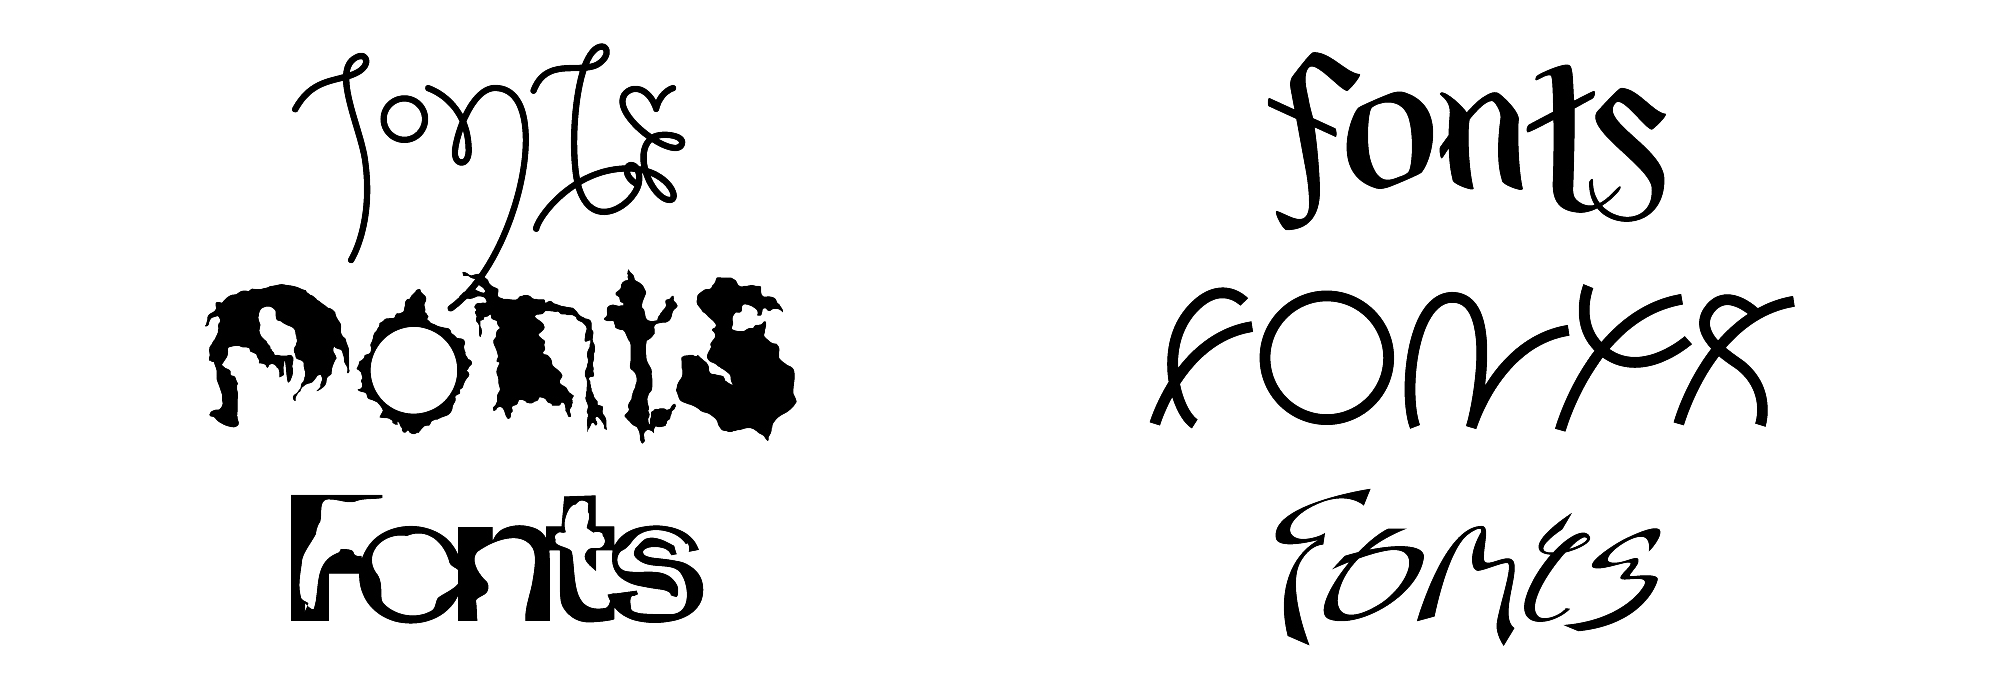
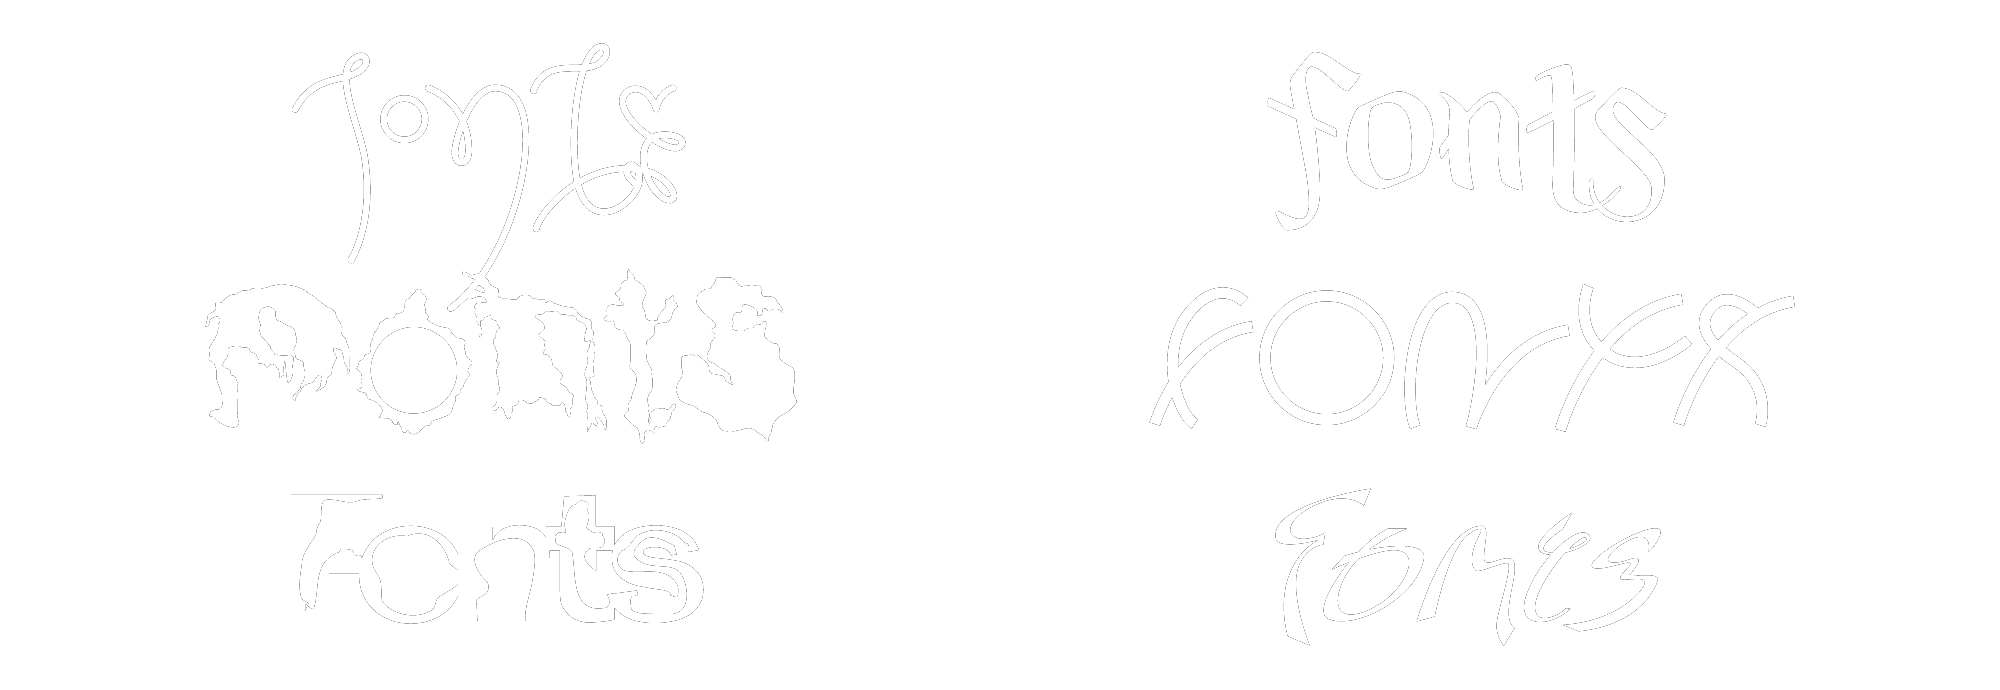
fixes

diff --git a/index.html b/index.html
@@ -40,8 +40,17 @@
       Available for freelance work or collaborations.</p>
     </div>
 <hr/>
-	<div id="authenticity">
-	  <img src="images/AuthenticityPosters/ap-12.jpg" alt="Authenticity Poster" class="shadow imagethirds"/>
+	<div id="Swati">
+      <img src="images/swati1.jpg" alt="Swati book" class="shadow"/>
+      <img src="images/swati2.jpg" alt="Swati book" class="shadow"/>
+      <img src="images/swati3.jpg" alt="Swati book" class="shadow"/>
+      <div class="description">
+          <p><span class="titles">Swati Piparsania Book &rarr; 2018</span><span class="spacer"></span>A book collecting the works and writings for industrial designer Swati Piparsania. Playing off of Piparsania's playful and speculative objects, each section of writing in this “flat book” has to be read as one continuous line through the entire book and back to the front of the book, “wrapping” around and around the book.</p>
+      </div>
+    </div>
+<hr/>
+  <div id="authenticity">
+    <img src="images/AuthenticityPosters/ap-12.jpg" alt="Authenticity Poster" class="shadow imagethirds"/>
       <img src="images/AuthenticityPosters/ap-11.jpg" alt="Authenticity Poster" class="shadow imagethirds"/>
       <img src="images/AuthenticityPosters/ap-10.jpg" alt="Authenticity Poster" class="shadow imagethirds"/>
       <img src="images/AuthenticityPosters/ap-2.jpg" alt="Authenticity Poster" class="shadow imagethirds"/>
@@ -74,12 +83,10 @@
       </div>
     </div>
 <hr/>
-  <div id="Swati">
-      <img src="images/swati1.jpg" alt="Swati book" class="shadow"/>
-      <img src="images/swati2.jpg" alt="Swati book" class="shadow"/>
-      <img src="images/swati3.jpg" alt="Swati book" class="shadow"/>
+  <div id="Metaphysical">
+      <img src="images/metaphysicalhauntings.png" alt="Metaphysical Hauntings" />
       <div class="description">
-          <p><span class="titles">Swati Piparsania Book &rarr; 2018</span><span class="spacer"></span>A book collecting the works and writings for industrial designer Swati Piparsania. Playing off of Piparsania's playful and speculative objects, each section of writing in this “flat book” has to be read as one continuous line through the entire book and back to the front of the book, “wrapping” around and around the book.</p>
+          <p><span class="titles">Metaphysical Hauntings &rarr; 2017</span><span class="spacer"></span>Logo for <em>Metaphysical Hauntings</em> webseries.</p>
       </div>
     </div>
 <hr/>
@@ -87,13 +94,6 @@
       <img src="images/PrattFashionAd.jpg" alt="Pratt Fashion Show Ad"/>
       <div class="description">
           <p><span class="titles">Pratt Shows: Fashion Ad &rarr; 2017</span><span class="spacer"></span>Advertisement for the Pratt Institute 2018 fashion show.</p><p><sup>Designed at Pratt Institute</sup></p>
-      </div>
-    </div>
-<hr/>
-  <div id="Metaphysical">
-      <img src="images/metaphysicalhauntings.png" alt="Metaphysical Hauntings" style="margin: 10px auto 20px auto;" />
-      <div class="description">
-          <p><span class="titles">Metaphysical Hauntings &rarr; 2017</span><span class="spacer"></span>Logo for <em>Metaphysical Hauntings</em> webseries.</p>
       </div>
     </div>
 <hr/>

diff --git a/style.css b/style.css
@@ -14,7 +14,7 @@ body {
 	line-height: 23px;
 	letter-spacing: -0.1px;
 	text-align: left;
-	color: bisque;
+	color: white;
 	-webkit-font-smoothing: antialiased;
 	-moz-osx-font-smoothing: grayscale;
 }
@@ -108,13 +108,13 @@ img.imagethirds {
 a:link {
 	font-weight: bold;
 	text-decoration:none;
-	color: bisque;
+	color: white;
 }
 
 a:visited {
 	font-weight: bold;
 	text-decoration:none;
-	color: bisque;
+	color: white;
 }
 
 a:hover{
@@ -127,7 +127,7 @@ a:hover{
 a:active {
 	font-weight: bold;
 	text-decoration:none;
-	color: bisque;
+	color: white;
 }
 
 
